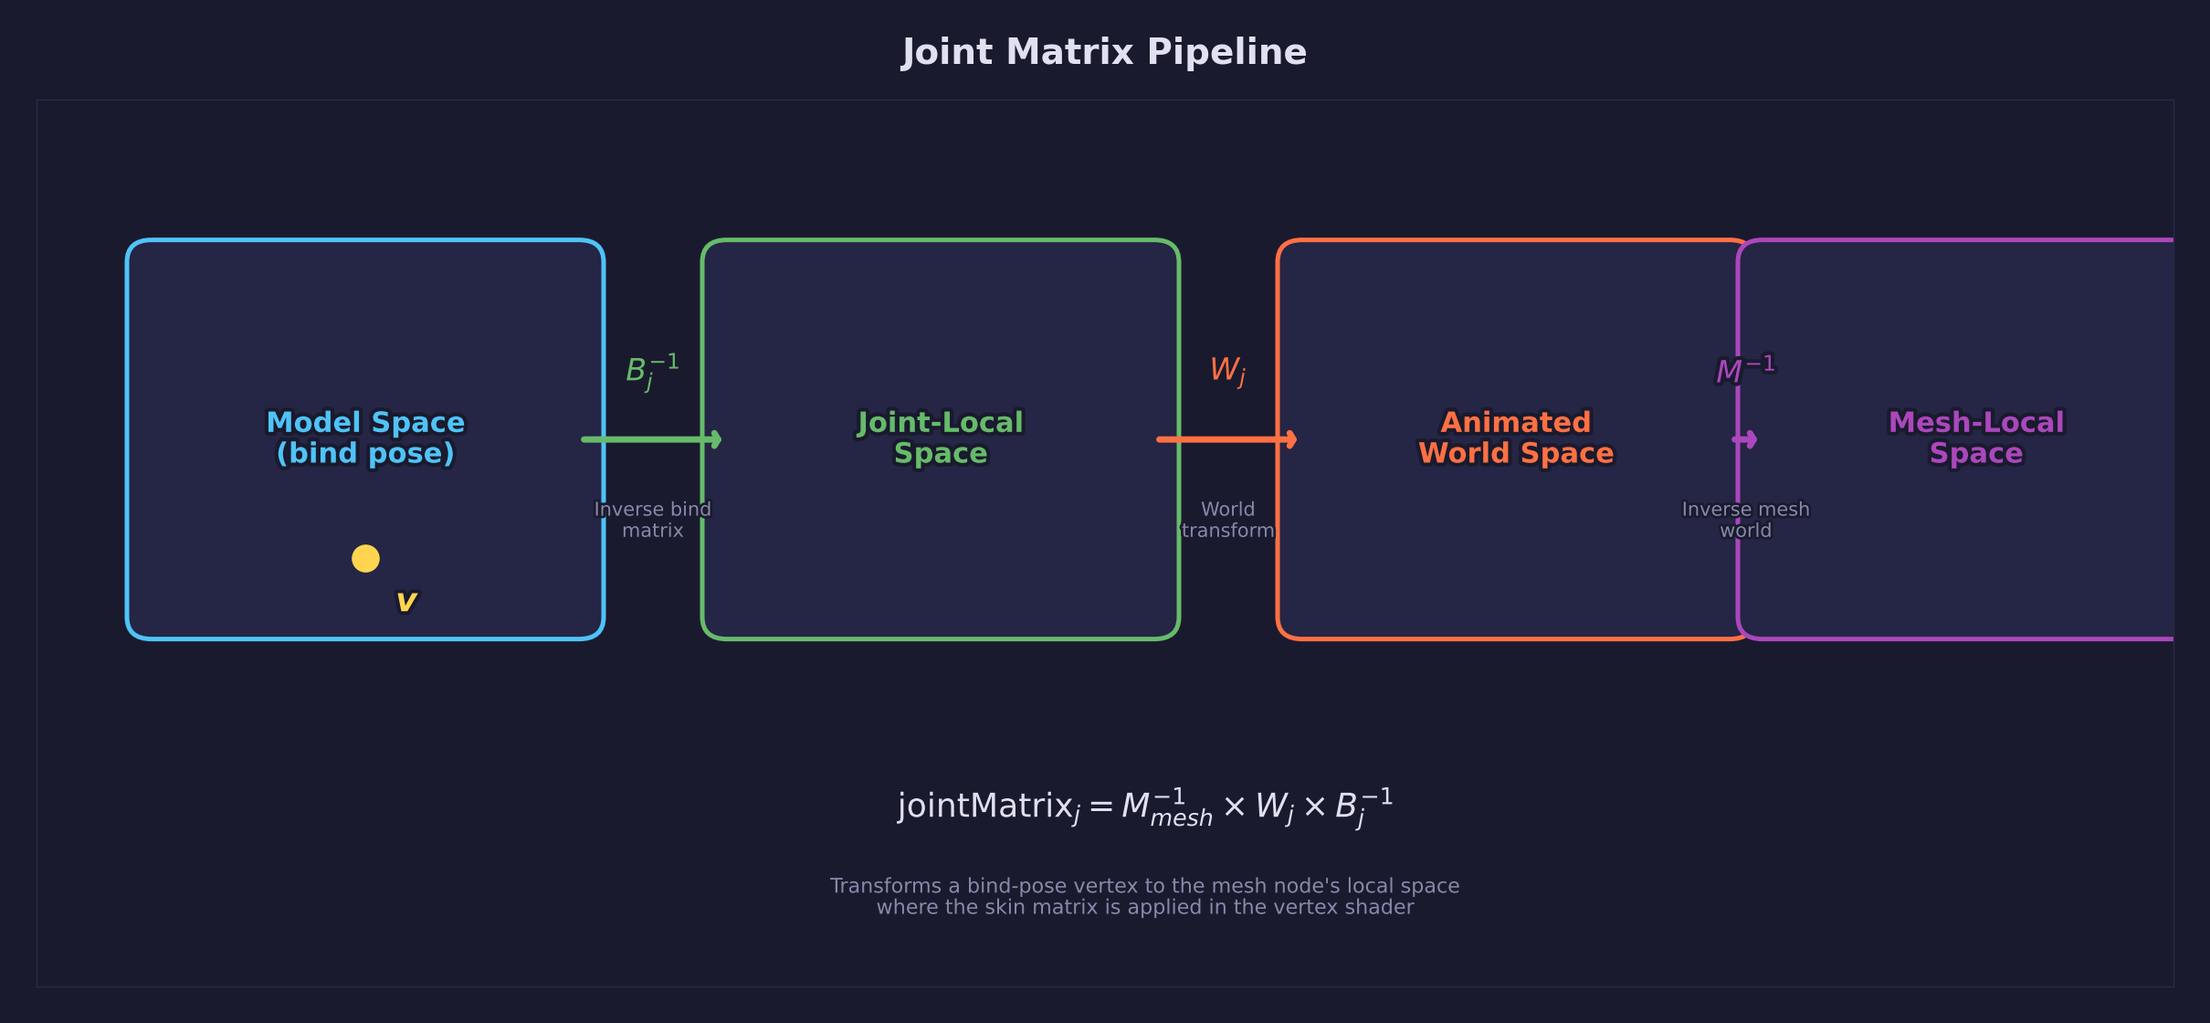
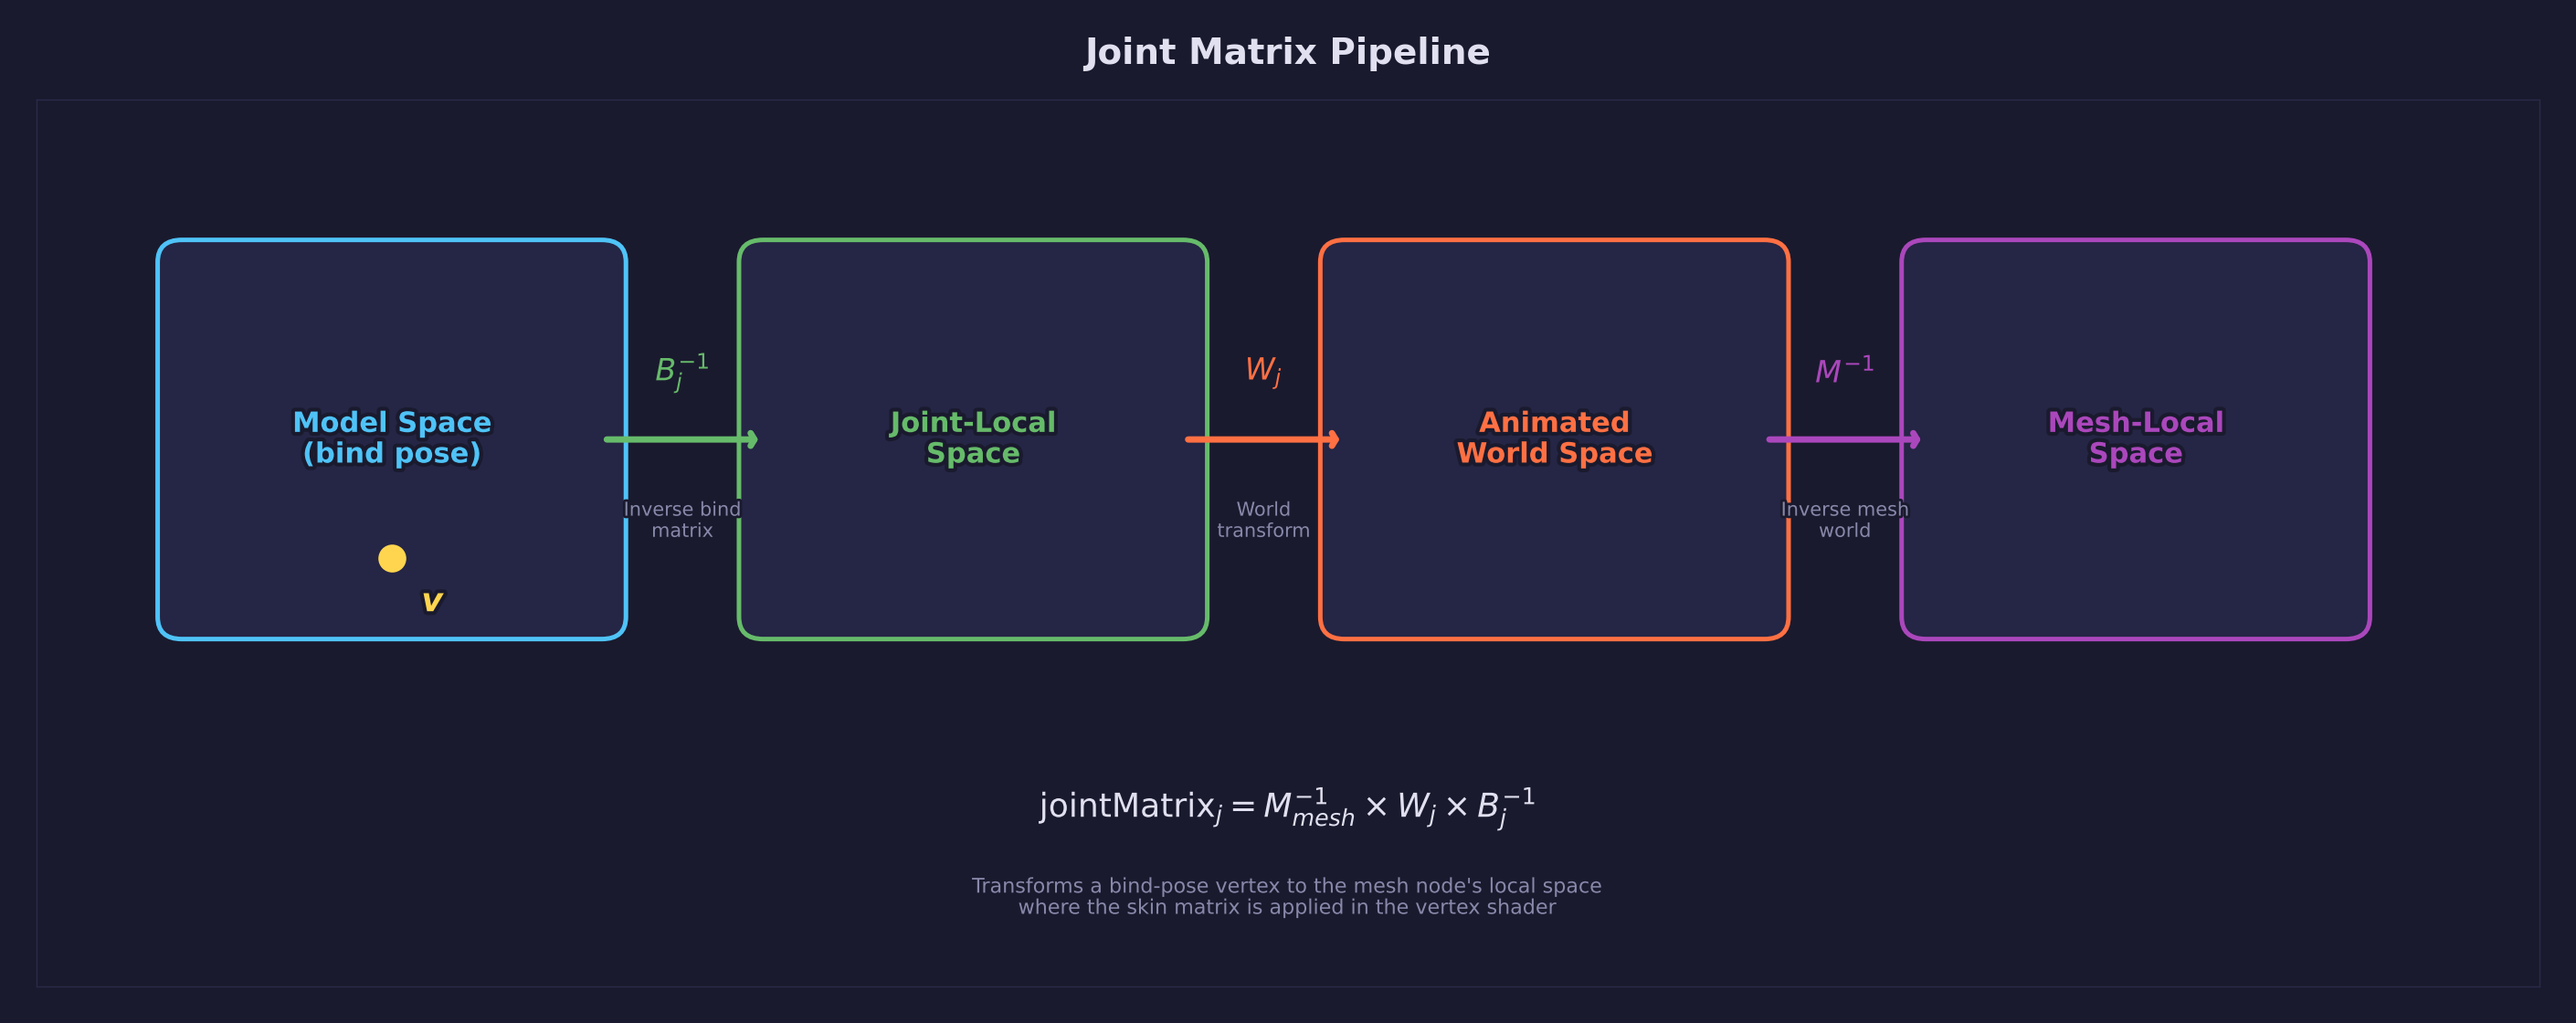
Fix joint matrix pipeline diagram layout
Widen figure and distribute boxes evenly so the rightmost box is not
cut off and spacing between all four boxes is uniform.

diff --git a/scripts/forge_diagrams/gpu_diagrams.py b/scripts/forge_diagrams/gpu_diagrams.py
@@ -14475,22 +14475,24 @@ def diagram_arc_length_parameterization():
 
 def diagram_joint_matrix_pipeline():
     """Joint-matrix pipeline across model, joint-local, world, and mesh-local spaces."""
-    fig = plt.figure(figsize=(12, 5.5), facecolor=STYLE["bg"])
+    fig = plt.figure(figsize=(14, 5.5), facecolor=STYLE["bg"])
     ax = fig.add_subplot(111)
-    setup_axes(ax, xlim=(-0.5, 13.0), ylim=(-1.5, 4.5), grid=False, aspect=None)
+    setup_axes(ax, xlim=(-0.5, 15.0), ylim=(-1.5, 4.5), grid=False, aspect=None)
     ax.set_xticks([])
     ax.set_yticks([])
 
     stroke = [pe.withStroke(linewidth=3, foreground=STYLE["bg"])]
     stroke_thin = [pe.withStroke(linewidth=2, foreground=STYLE["bg"])]
 
-    # --- Space boxes ---
+    # --- Space boxes (evenly spaced) ---
     box_w, box_h = 2.6, 2.4
+    gap = 1.0
+    x0 = 0.4
     boxes = [
-        (0.2, 1.0, "Model Space\n(bind pose)", STYLE["accent1"]),
-        (3.7, 1.0, "Joint-Local\nSpace", STYLE["accent3"]),
-        (7.2, 1.0, "Animated\nWorld Space", STYLE["accent2"]),
-        (10.0, 1.0, "Mesh-Local\nSpace", STYLE["accent4"]),
+        (x0 + 0 * (box_w + gap), 1.0, "Model Space\n(bind pose)", STYLE["accent1"]),
+        (x0 + 1 * (box_w + gap), 1.0, "Joint-Local\nSpace", STYLE["accent3"]),
+        (x0 + 2 * (box_w + gap), 1.0, "Animated\nWorld Space", STYLE["accent2"]),
+        (x0 + 3 * (box_w + gap), 1.0, "Mesh-Local\nSpace", STYLE["accent4"]),
     ]
 
     for bx, by, label, color in boxes:
@@ -14519,7 +14521,7 @@ def diagram_joint_matrix_pipeline():
         )
 
     # --- Vertex dot in model space ---
-    vx, vy = 1.5, 1.4
+    vx, vy = 1.7, 1.4
     ax.plot(vx, vy, "o", color=STYLE["warn"], ms=10, zorder=6)
     ax.text(
         vx + 0.25,
@@ -14538,9 +14540,9 @@ def diagram_joint_matrix_pipeline():
     # --- Transform arrows between boxes ---
     arrow_y = 2.2
     arrows = [
-        (2.8, 3.7, "$B_j^{-1}$", STYLE["accent3"], "Inverse bind\nmatrix"),
-        (6.3, 7.2, "$W_j$", STYLE["accent2"], "World\ntransform"),
-        (9.8, 10.0, "$M^{-1}$", STYLE["accent4"], "Inverse mesh\nworld"),
+        (3.0, 4.0, "$B_j^{-1}$", STYLE["accent3"], "Inverse bind\nmatrix"),
+        (6.6, 7.6, "$W_j$", STYLE["accent2"], "World\ntransform"),
+        (10.2, 11.2, "$M^{-1}$", STYLE["accent4"], "Inverse mesh\nworld"),
     ]
 
     for x_start, x_end, math_label, color, desc_label in arrows:
@@ -14585,7 +14587,7 @@ def diagram_joint_matrix_pipeline():
 
     # --- Full formula at bottom ---
     ax.text(
-        6.25,
+        7.25,
         -0.3,
         r"$\mathrm{jointMatrix}_j = M_{mesh}^{-1} \times W_j \times B_j^{-1}$",
         color=STYLE["text"],
@@ -14597,7 +14599,7 @@ def diagram_joint_matrix_pipeline():
         zorder=5,
     )
     ax.text(
-        6.25,
+        7.25,
         -0.9,
         "Transforms a bind-pose vertex to the mesh node's local space\n"
         "where the skin matrix is applied in the vertex shader",
